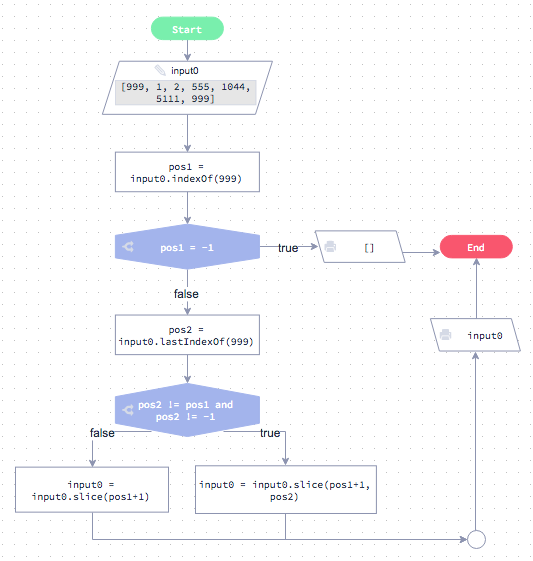
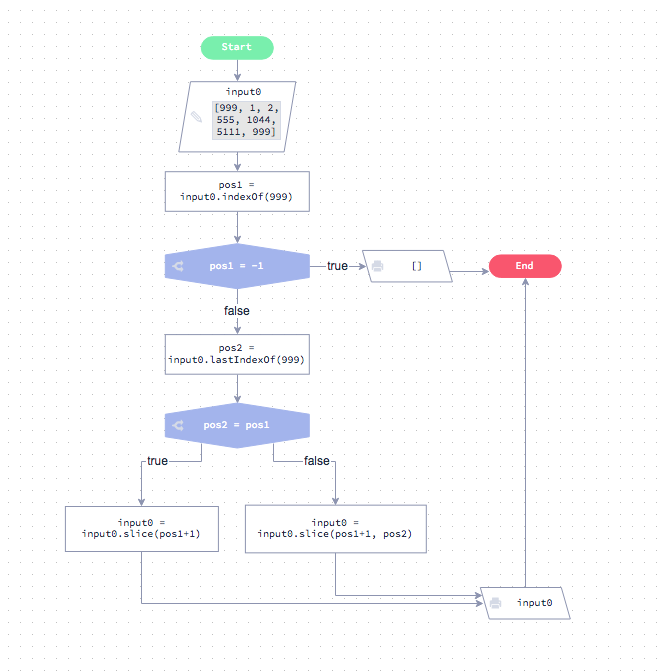
fixed search-slice test and solutions

Changed region(s): [[0.03, 0.0303, 0.9606, 0.9697], [0.8105, 0.5455, 0.9906, 0.6667], [0.7805, 0.5455, 0.8105, 0.5758]]

diff --git a/search-slice.js b/search-slice.js
@@ -38,7 +38,7 @@ if(output.length == 0) {
   process.exit(1)
 }
 
-out = output[1];
+out = output[0];
 
 // console.log(expected)
 // console.log(out)
